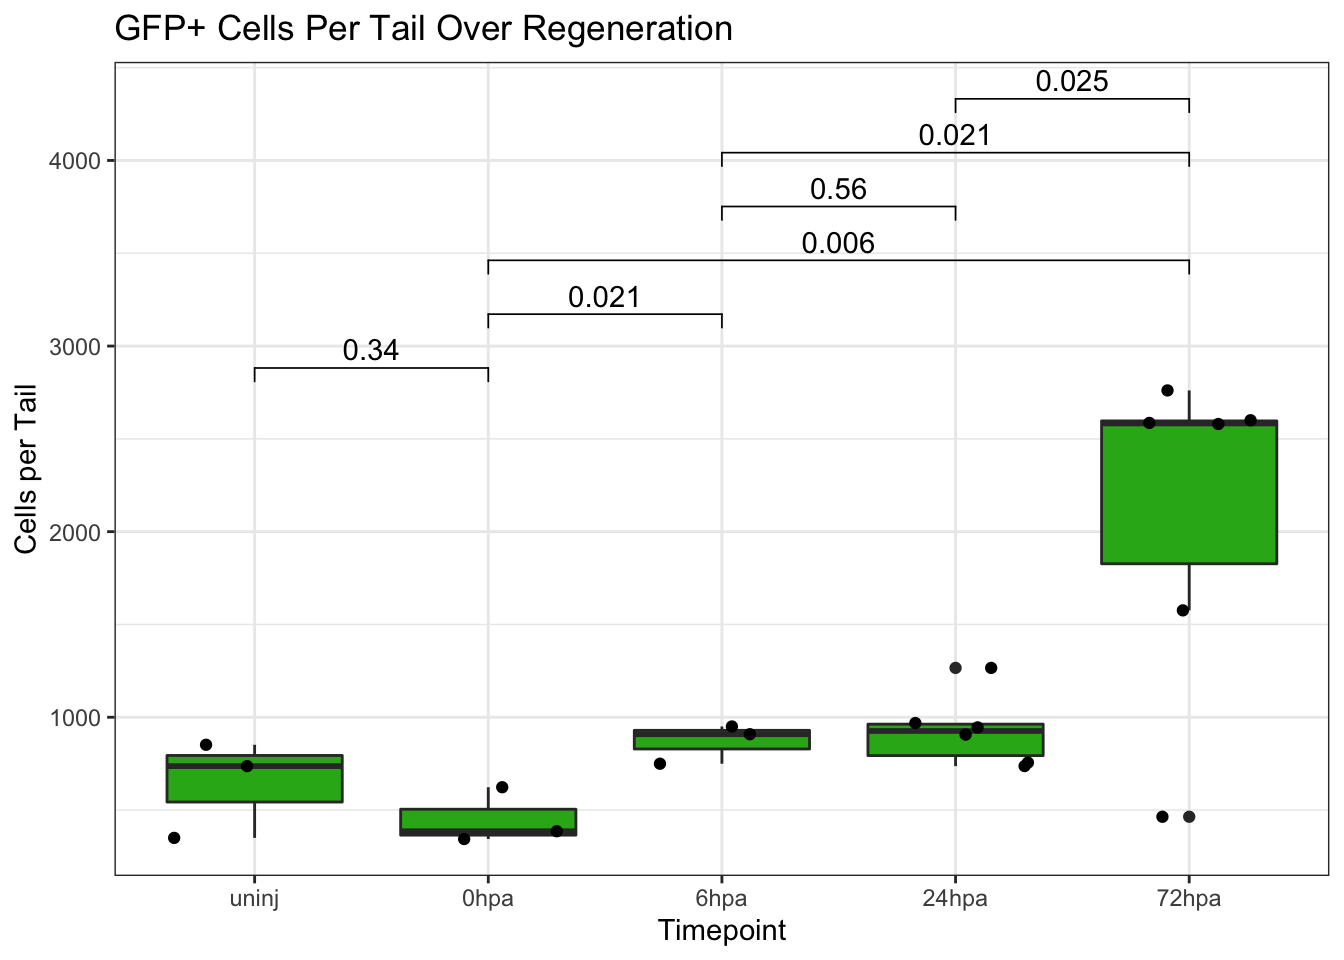
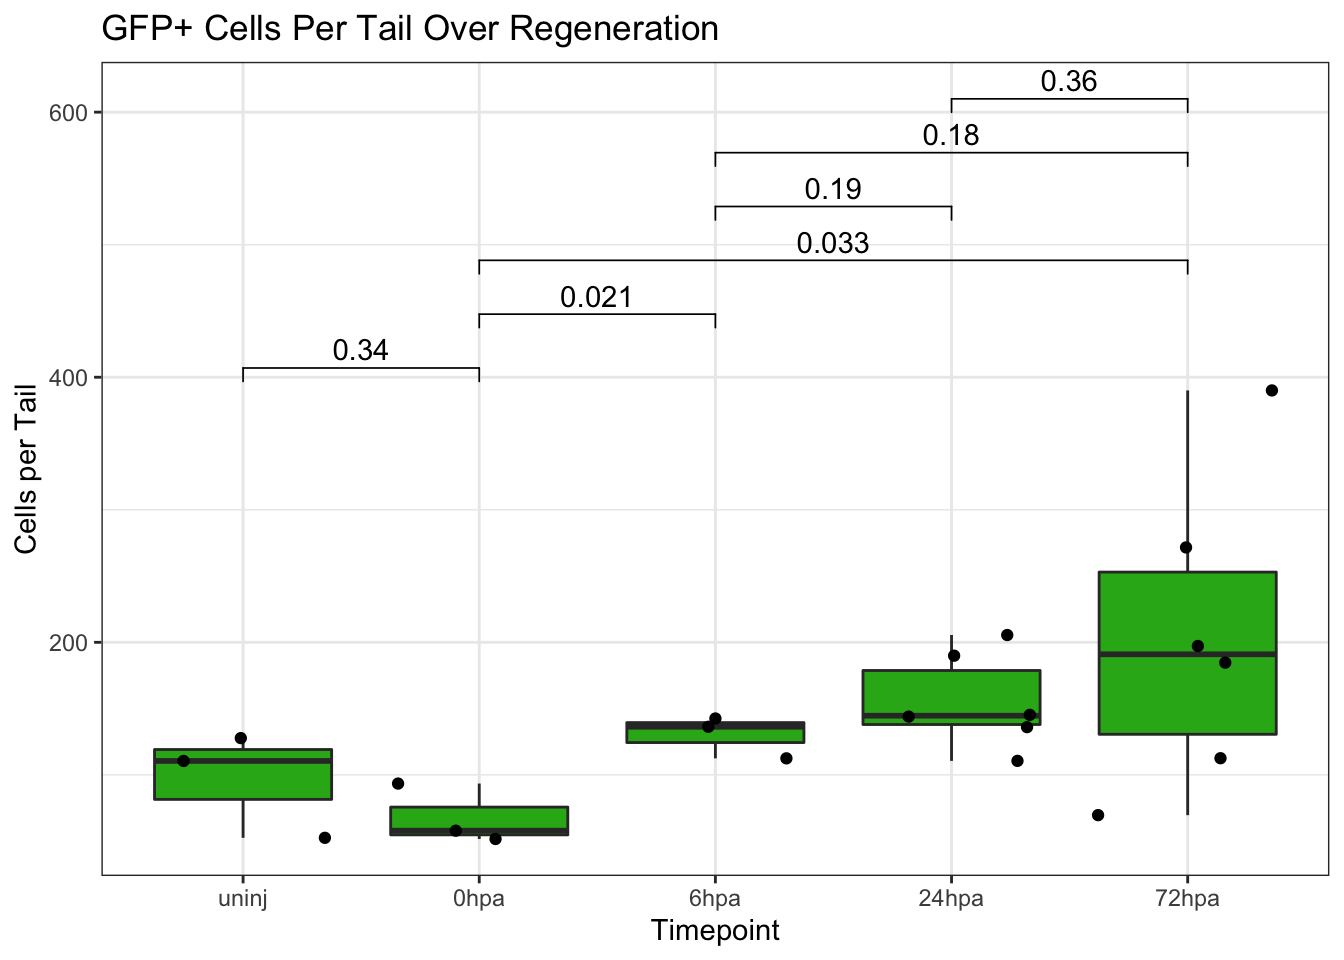
update Former-commit-id: eee9d0f8d021399f7b7b44e11590347a2fdf8d96

diff --git a/FACS/FINAL_FACS_QUANT.html b/FACS/FINAL_FACS_QUANT.html
@@ -1,3 +1,3 @@
 version https://git-lfs.github.com/spec/v1
-oid sha256:801cbdbaecbed94a58be468f666dcf30d542cf9eb6555bc93dfcb8a3375918f3
-size 1438308
+oid sha256:8c46a07a9e2ba2d4425c0b36a84cf96550e5184f271382d62e4316e0bb03f4bd
+size 1436817

diff --git a/FACS/README.md b/FACS/README.md
@@ -17,6 +17,42 @@ In response, I elected to analyze and plot existing data from the ATAC-Seq colle
 Set up
 ======
 
+    ## Loading required package: magrittr
+
+    ## 
+    ## Attaching package: 'dplyr'
+
+    ## The following objects are masked from 'package:stats':
+    ## 
+    ##     filter, lag
+
+    ## The following objects are masked from 'package:base':
+    ## 
+    ##     intersect, setdiff, setequal, union
+
+    ## ── Attaching packages ─────────────────────────────────────────────────────── tidyverse 1.3.0 ──
+
+    ## ✓ tibble  2.1.3     ✓ purrr   0.3.3
+    ## ✓ tidyr   1.0.0     ✓ stringr 1.4.0
+    ## ✓ readr   1.3.1     ✓ forcats 0.4.0
+
+    ## ── Conflicts ────────────────────────────────────────────────────────── tidyverse_conflicts() ──
+    ## x tidyr::extract()   masks magrittr::extract()
+    ## x dplyr::filter()    masks stats::filter()
+    ## x dplyr::lag()       masks stats::lag()
+    ## x purrr::set_names() masks magrittr::set_names()
+
+    ## 
+    ## Attaching package: 'scales'
+
+    ## The following object is masked from 'package:purrr':
+    ## 
+    ##     discard
+
+    ## The following object is masked from 'package:readr':
+    ## 
+    ##     col_factor
+
 Flowjo Analysis
 ===============
 
@@ -31,6 +67,10 @@ ATAC-Seq samples and Most recent FACS analysis for higher N
 These plots take into account each biological replicate sorted for atac-seq libraries as well as biological replicates measured in a different experiment performed summer of 2019.
 
 ### Subset table
+
+    ## 
+    ## uninj  0hpa  6hpa 24hpa 72hpa 
+    ##     3     3     3     6     6
 
 Based on our ATAC-Seq analysis and scRNA-Seq analysis, we hypothesized that the 72hpa timepoint has more proliferative neural progenitor cells than at 6hpa or 24hpa. To quantify the number of cells per regenerating tail, we identified the GFP+ cells in each flow cytometry analysis and divided this number by the number of input tails.
 
